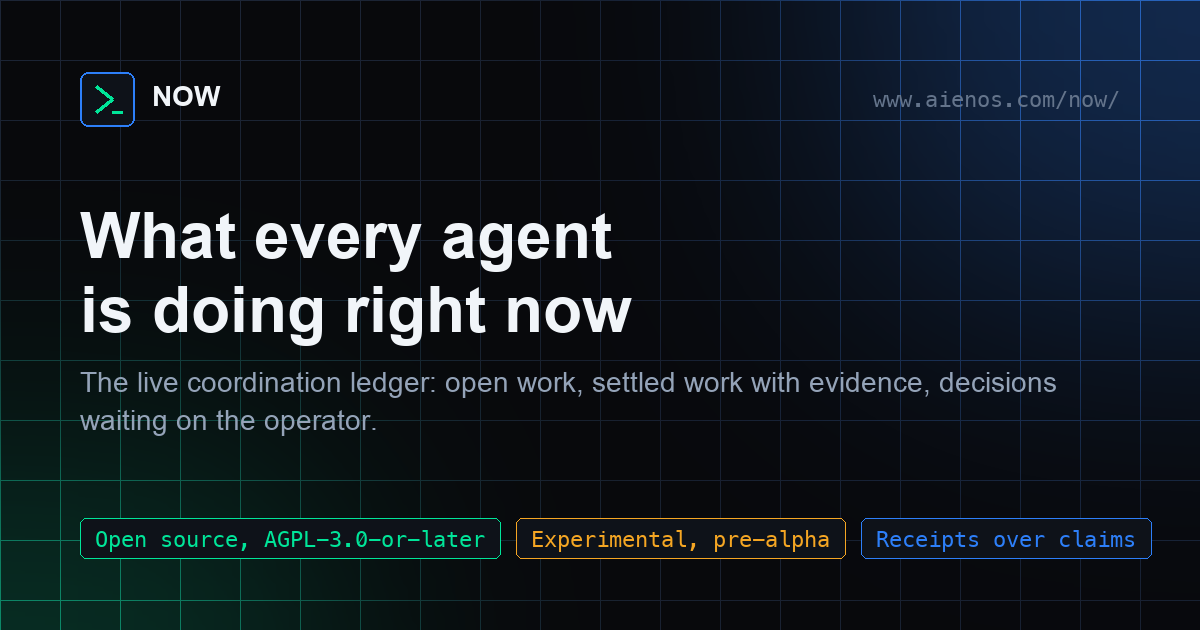
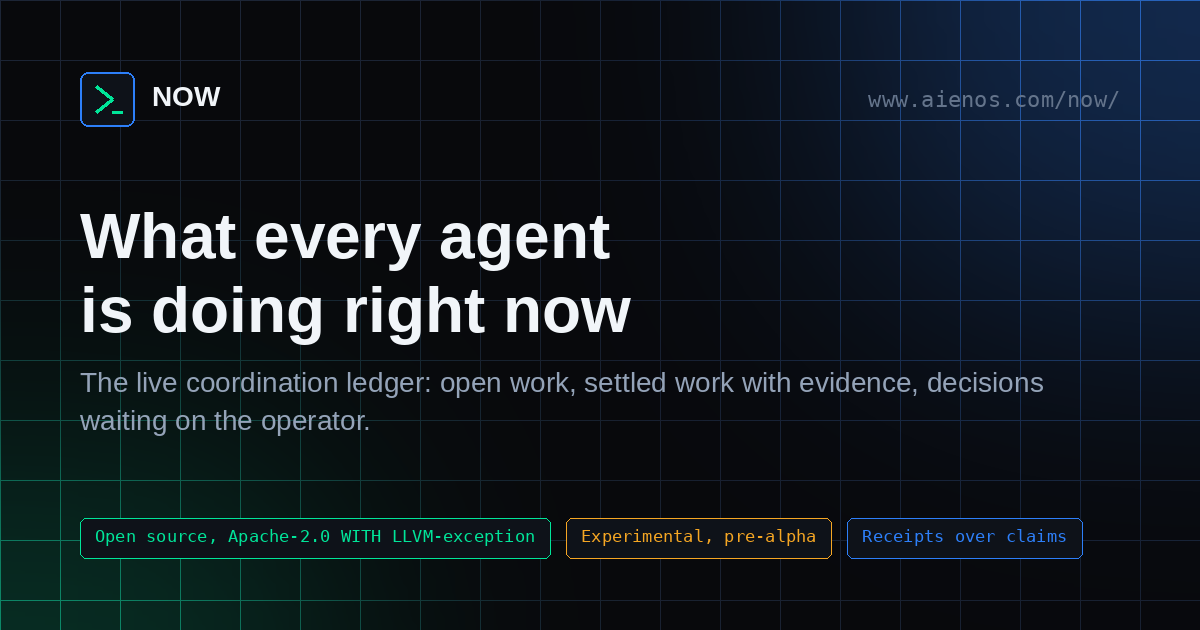
fix: refresh stale social-preview license badges and image cache keys

diff --git a/crates/site-builder/src/seo.rs b/crates/site-builder/src/seo.rs
@@ -30,7 +30,7 @@ pub const AUTHOR: &str = "M. Drake Stapleton";
 pub const AUTHOR_URL: &str = "https://www.drakestapleton.com";
 pub const AUTHOR_GITHUB: &str = "https://github.com/drakestapleton";
 pub const LICENSE_NAME: &str = "Apache-2.0 WITH LLVM-exception";
-pub const LICENSE_URL: &str = "https://www.gnu.org/licenses/agpl-3.0.html";
+pub const LICENSE_URL: &str = "https://www.aienos.com/licensing/";
 
 /// What a page is, for structured data.
 #[derive(Clone, Copy, PartialEq, Eq, Debug)]
@@ -535,7 +535,7 @@ fn graph(page: &Emitted, info: &PageInfo, facts: &HeadFacts, has_mirror: bool, c
     let url = page.url();
     let title = unescape(if facts.og_title.is_empty() { &facts.title } else { &facts.og_title });
     let description = unescape(if facts.description.is_empty() { &facts.og_description } else { &facts.description });
-    let image = format!("{HOST}{}", info.image);
+    let image = social_image_url(info);
     let zh = page.is_zh();
     let kind = match info.kind {
         Kind::Home | Kind::Page | Kind::Live => "WebPage",
@@ -611,13 +611,18 @@ fn graph(page: &Emitted, info: &PageInfo, facts: &HeadFacts, has_mirror: bool, c
     json!({"@context": "https://schema.org", "@graph": nodes})
 }
 
+/// Bump when cards change so preview crawlers fetch the new image bytes.
+fn social_image_url(info: &PageInfo) -> String {
+    format!("{HOST}{}?v=20261024-apache-llvm", info.image)
+}
+
 /// The tags the pass writes into every head.
 fn head_block(page: &Emitted, info: &PageInfo, facts: &HeadFacts, has_mirror: bool, ctx: &BuildCtx, dist: &Path) -> String {
     let url = page.url();
     let title = if facts.og_title.is_empty() { facts.title.clone() } else { facts.og_title.clone() };
     let description = if facts.og_description.is_empty() { facts.description.clone() } else { facts.og_description.clone() };
     let og_type = if !facts.og_type.is_empty() { facts.og_type.clone() } else { match info.kind { Kind::Article | Kind::Paper => "article".into(), _ => "website".into() } };
-    let image = format!("{HOST}{}", info.image);
+    let image = social_image_url(info);
     let image_alt = escape(&format!("{SITE_NAME}: {}", info.name));
     let locale = if page.is_zh() { "zh_CN" } else { "en_US" };
     let mut b = String::new();
@@ -1123,6 +1128,27 @@ pub fn verify(dist: &Path) {
 #[cfg(test)]
 mod tests {
     use super::*;
+
+    #[test]
+    fn social_previews_use_current_license_and_fresh_images() {
+        assert_eq!(LICENSE_NAME, "Apache-2.0 WITH LLVM-exception");
+        assert_eq!(LICENSE_URL, "https://www.aienos.com/licensing/");
+        let ctx = BuildCtx { built: "b".into(), head_committed: "h".into(), ledger_written: "l".into(), facts_generated: "f".into() };
+        for info in PAGES {
+            for lang in ["en", "zh-CN"] {
+                let path = if lang == "en" { info.path.to_string() } else { format!("/zh-CN{}", info.path) };
+                let page = Emitted { path, file: PathBuf::from("x"), lang: lang.into(), lastmod: "2026-10-24T00:00:00Z".into() };
+                let facts = HeadFacts::default();
+                let head = head_block(&page, info, &facts, false, &ctx, Path::new("/nonexistent"));
+                let image = social_image_url(info);
+                assert!(image.ends_with("?v=20261024-apache-llvm"));
+                assert!(head.contains(&format!("property=\"og:image\" content=\"{image}\"")));
+                assert!(head.contains(&format!("name=\"twitter:image\" content=\"{image}\"")));
+                assert!(head.contains(LICENSE_URL));
+                assert!(!head.contains("gnu.org/licenses/agpl"));
+            }
+        }
+    }
 
     #[test]
     fn rfc3339_round_trip() {

diff --git a/scripts/test_og_cards.py b/scripts/test_og_cards.py
@@ -1,0 +1,52 @@
+"""Social-card regression checks: python3 -m unittest discover -s scripts -p 'test_og_cards.py'."""
+import importlib.util
+from pathlib import Path
+import tempfile
+import unittest
+
+from PIL import Image, ImageDraw
+
+SPEC = importlib.util.spec_from_file_location("og_cards", Path(__file__).with_name("og-cards.py"))
+cards = importlib.util.module_from_spec(SPEC)
+SPEC.loader.exec_module(cards)
+ROOT = Path(__file__).resolve().parents[1]
+
+
+class SocialCardsTests(unittest.TestCase):
+    def test_license_matches_site_metadata_and_controlling_text(self):
+        seo = (ROOT / "crates/site-builder/src/seo.rs").read_text()
+        self.assertIn(f'LICENSE_NAME: &str = "{cards.LICENSE_NAME}"', seo)
+        self.assertIn("LLVM Exceptions", (ROOT / "LICENSE").read_text())
+        self.assertIn(cards.LICENSE_NAME, (ROOT / "public/licensing/index.html").read_text())
+        self.assertEqual(cards.BADGES[0][0], f"Open source, {cards.LICENSE_NAME}")
+        self.assertNotIn("AGPL", cards.BADGES[0][0])
+
+    def test_badges_fit_inside_card_margins(self):
+        draw = ImageDraw.Draw(Image.new("RGB", (cards.W, cards.H)))
+        font = cards.badge_font(draw)
+        width = sum(draw.textlength(label, font=font) + 30 for label, _ in cards.BADGES)
+        self.assertLessEqual(width + 16 * (len(cards.BADGES) - 1), cards.W - 160)
+
+    def test_all_cards_render_deterministically_at_published_dimensions(self):
+        old_out = cards.OUT
+        try:
+            with tempfile.TemporaryDirectory() as directory:
+                cards.OUT = directory
+                for card in cards.CARDS:
+                    with self.subTest(card=card[0]):
+                        cards.card(*card)
+                        rendered = Path(directory, card[0])
+                        first = rendered.read_bytes()
+                        cards.card(*card)
+                        self.assertEqual(rendered.read_bytes(), first)
+                        with Image.open(ROOT / "public" / card[0]) as published:
+                            self.assertEqual(published.size, (1200, 630))
+                        with Image.open(rendered) as image:
+                            self.assertEqual(image.size, (1200, 630))
+                            self.assertEqual(image.mode, "RGB")
+        finally:
+            cards.OUT = old_out
+
+
+if __name__ == "__main__":
+    unittest.main()

diff --git a/scripts/og-cards.py b/scripts/og-cards.py
@@ -23,6 +23,19 @@ GREEN = (0, 229, 153)
 TEXT = (241, 245, 249)
 MUTED = (148, 163, 184)
 DIM = (100, 116, 139)
+LICENSE_NAME = "Apache-2.0 WITH LLVM-exception"
+BADGES = ((f"Open source, {LICENSE_NAME}", GREEN),
+          ("Experimental, pre-alpha", (245, 166, 35)),
+          ("Receipts over claims", BLUE))
+
+def badge_font(draw):
+    # Keep the full license identifier and all three badges inside the margins.
+    for size in range(22, 11, -1):
+        candidate = font(MONO, size)
+        width = sum(draw.textlength(label, font=candidate) + 30 for label, _ in BADGES)
+        if width + 16 * (len(BADGES) - 1) <= W - 160:
+            return candidate
+    raise ValueError("Social card badges do not fit")
 
 CARDS = [
     # file, kicker, claim (two lines max), sub line, address
@@ -71,15 +84,16 @@ CARDS = [
 FONT_DIRS = ["/System/Library/Fonts/Supplemental", "/System/Library/Fonts",
              "/usr/share/fonts/truetype/dejavu", "/usr/share/fonts/truetype/liberation"]
 def font(names, size):
-    for d in FONT_DIRS:
-        for n in names:
+    for n in names:
+        for d in FONT_DIRS:
             p = os.path.join(d, n)
             if os.path.exists(p):
                 return ImageFont.truetype(p, size)
     return ImageFont.load_default(size)
 
-BOLD = ["Arial Bold.ttf", "DejaVuSans-Bold.ttf", "LiberationSans-Bold.ttf"]
-REG = ["Arial.ttf", "DejaVuSans.ttf", "LiberationSans-Regular.ttf"]
+# Liberation Sans is metrically compatible with Arial; preserve the card layout on Linux.
+BOLD = ["Arial Bold.ttf", "LiberationSans-Bold.ttf", "DejaVuSans-Bold.ttf"]
+REG = ["Arial.ttf", "LiberationSans-Regular.ttf", "DejaVuSans.ttf"]
 MONO = ["Menlo.ttc", "DejaVuSansMono.ttf", "LiberationMono-Regular.ttf"]
 
 def glow(base, xy, r, color, alpha):
@@ -135,7 +149,8 @@ def card(file, kicker, claim, sub, address):
         y += 38
     # Badges along the bottom.
     bx = 80
-    for label, col in (("Open source, AGPL-3.0-or-later", GREEN), ("Experimental, pre-alpha", (245, 166, 35)), ("Receipts over claims", BLUE)):
+    fm = badge_font(d)
+    for label, col in BADGES:
         tw = d.textlength(label, font=fm)
         d.rounded_rectangle((bx, 518, bx + tw + 30, 558), radius=6, outline=col, width=1, fill=(14, 18, 25, 255))
         d.text((bx + 15, 526), label, font=fm, fill=col)
